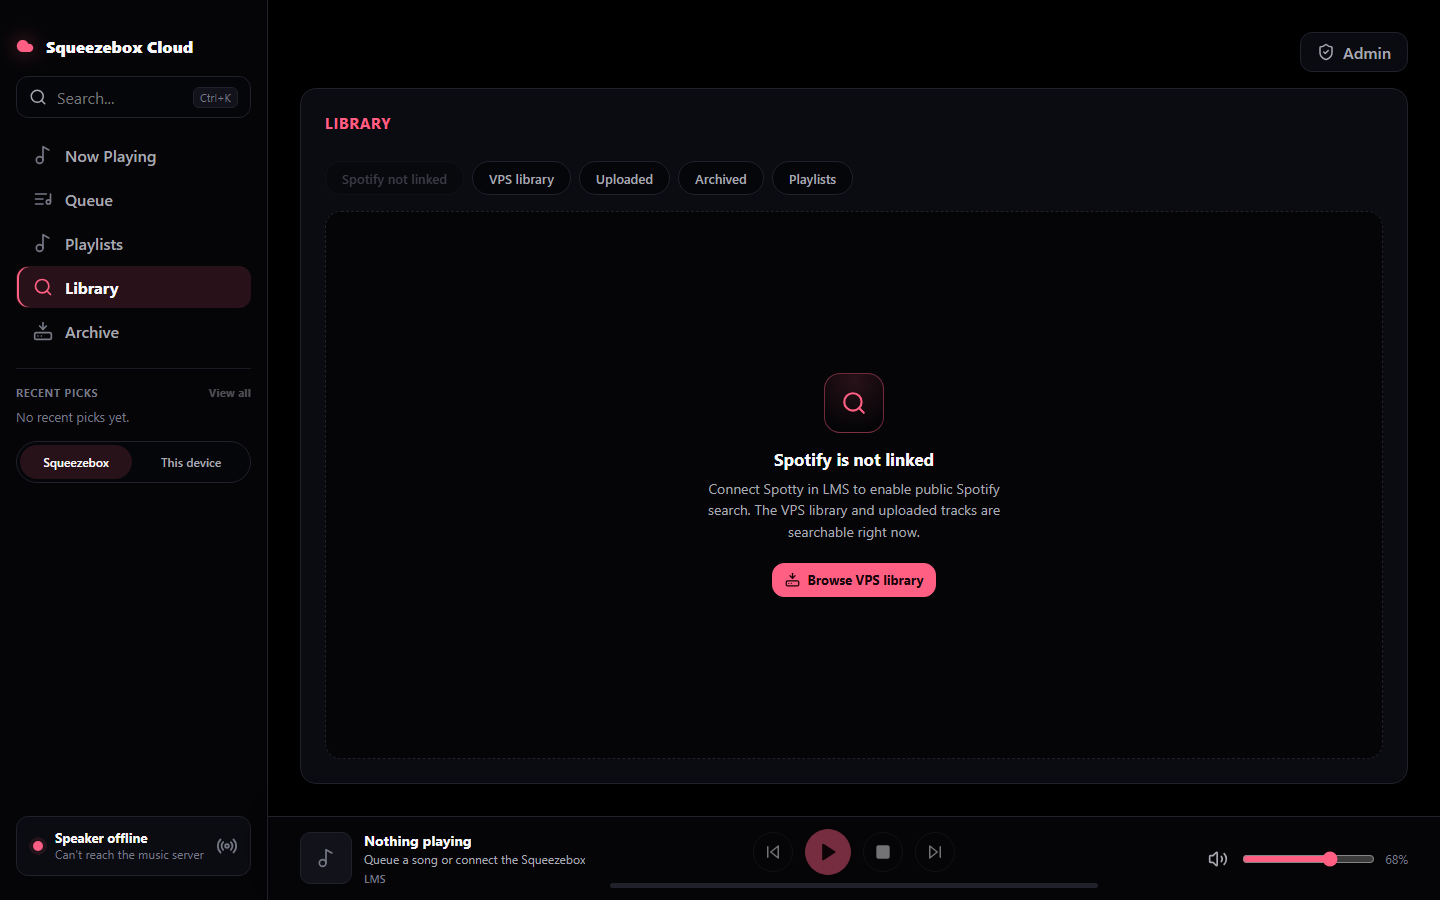
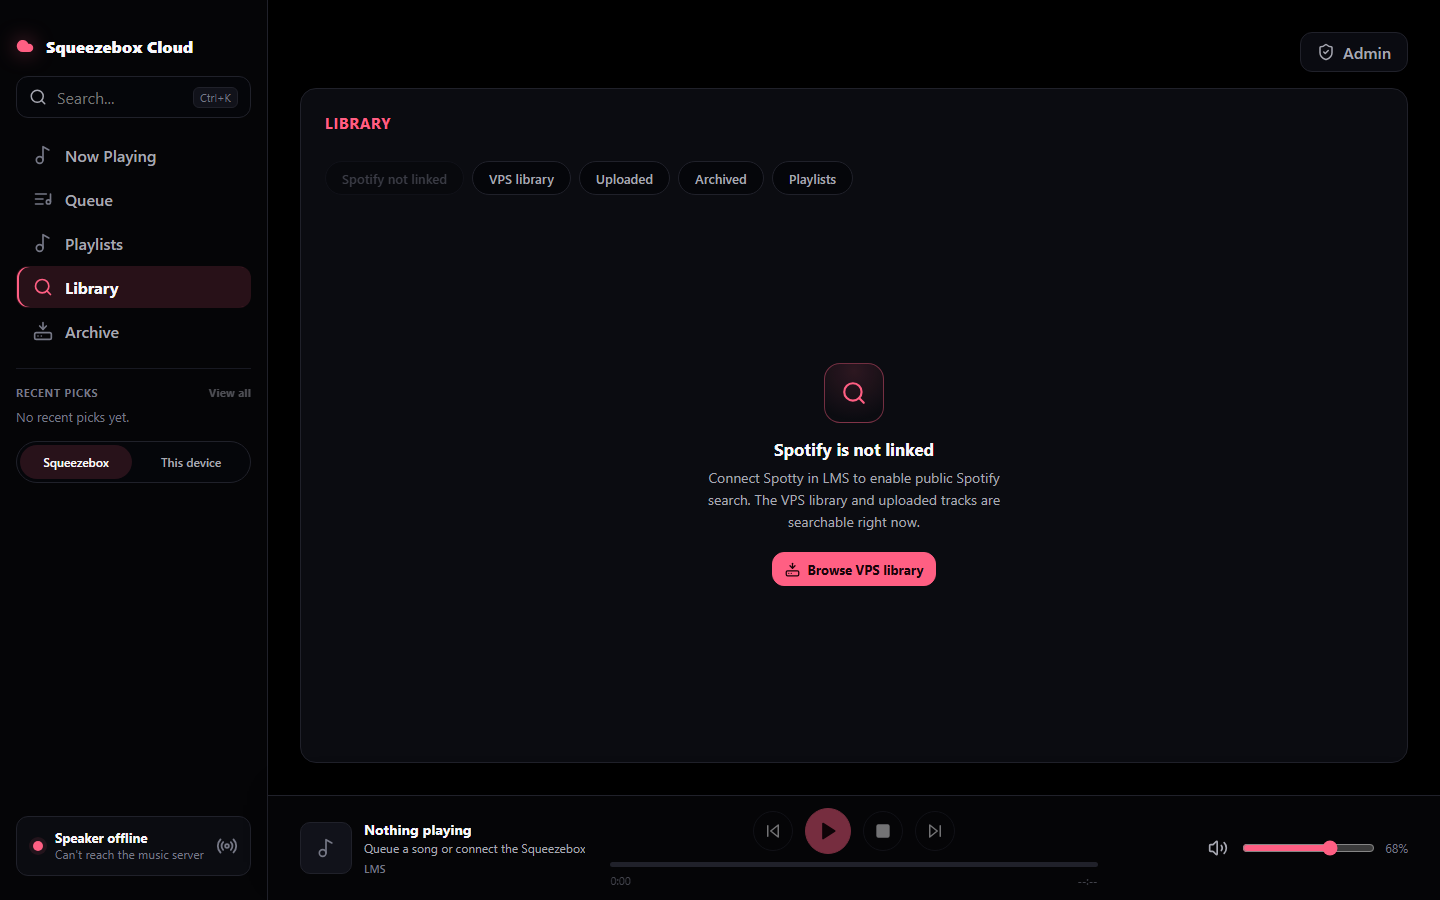
matureui: address held-out judge findings (seek labels, empty-card weight, narrow admin)
- Player-bar seek always shows its time codes (0:00 / --:-- when idle) so it reads
  as a real transport control, not a stray hairline. Restores the labels the
  pre-rebuild UI had; idle labels render muted.
- Empty states drop the large dashed box and center as composed content on the
  panel surface (Linear-style), removing the perceived void on Queue/Library/Archive.
- Admin action pairs with the wordmark as a top bar on narrow (where the sidebar
  stacks above the main header), fixing the orphaned floating pill; desktop keeps
  the top-right placement (specificity fix so .top-link no longer overrides the hide).

diff --git a/src/styles.css b/src/styles.css
@@ -148,6 +148,8 @@ small { display: block; font-size: 13px; line-height: 1.45; }
   letter-spacing: .01em;
 }
 .brand svg { color: var(--rose); filter: drop-shadow(0 0 10px rgba(255, 95, 131, .5)); }
+.brand > .brand__admin { margin-left: auto; display: none; }
+.brand__admin svg { color: currentColor; filter: none; }
 
 .sidebar-search {
   min-height: 42px;
@@ -473,6 +475,7 @@ nav button.active svg { color: var(--rose); }
   display: flex; justify-content: space-between;
   color: var(--faint); font-size: 11px; font-variant-numeric: tabular-nums;
 }
+.progress-times.is-idle { opacity: .55; }
 .volume-row { display: grid; grid-template-columns: auto 1fr auto; gap: var(--s3); align-items: center; }
 .volume-row svg { color: var(--muted); }
 .volume-row span { min-width: 3.5ch; text-align: right; color: var(--faint); font-size: 12px; font-variant-numeric: tabular-nums; }
@@ -810,8 +813,7 @@ nav button.active svg { color: var(--rose); }
 .empty-state {
   display: flex; flex-direction: column; align-items: center; justify-content: center;
   text-align: center; gap: var(--s2);
-  flex: 1; min-height: 260px; padding: var(--s7) var(--s4);
-  border: 1px dashed var(--line); border-radius: var(--r-card); background: var(--bg-soft);
+  flex: 1; min-height: 220px; padding: var(--s6) var(--s4);
 }
 .empty-state__mark {
   display: grid; place-items: center;
@@ -925,6 +927,11 @@ nav button.active svg { color: var(--rose); }
     position: static; height: auto; overflow: visible;
     border-right: 0; border-bottom: 1px solid var(--line);
   }
+  /* On narrow the sidebar stacks above the main header, so the desktop top-right
+     Admin link would float orphaned — pair it with the wordmark as a top bar instead. */
+  .brand > .brand__admin { display: inline-flex; }
+  .hero-row .top-actions { display: none; }
+  .hero-row { min-height: 0; margin-bottom: var(--s2); }
   nav { grid-template-columns: repeat(2, minmax(0, 1fr)); }
   .recent-picks { display: none; }
   .main { padding: var(--s4); gap: var(--s3); }

diff --git a/src/App.tsx b/src/App.tsx
@@ -408,6 +408,12 @@ function AppShell() {
         <div className="brand">
           <Cloud size={18} fill="currentColor" />
           <span>Squeezebox Cloud</span>
+          {/* Compact top-bar action for narrow layouts, where the sidebar stacks above
+              the main header and the desktop top-right Admin link would float orphaned. */}
+          <a className="brand__admin top-link" href={isAdminRoute ? import.meta.env.BASE_URL : `${import.meta.env.BASE_URL}admin`}>
+            <ShieldCheck size={16} />
+            {isAdminRoute ? "Public site" : "Admin"}
+          </a>
         </div>
         <div className="sidebar-search">
           <Search size={18} />
@@ -1074,14 +1080,13 @@ function Progress({
           }}
         />
       </div>
-      {/* No orphaned "0:00 / --:--" when nothing is playing; a live stream with
-          unknown length still shows its elapsed time. */}
-      {(duration > 0 || value > 0) && (
-        <div className="progress-times">
-          <span>{formatTime(value)}</span>
-          <span>{duration > 0 ? formatTime(duration) : ""}</span>
-        </div>
-      )}
+      {/* Always show the scrubber's time codes so the seek reads as a real transport
+          control, not a stray line. Idle shows a muted 0:00 / --:-- (a disabled
+          scrubber), not an orphan — a live stream of unknown length still shows elapsed. */}
+      <div className={`progress-times ${disabled && duration <= 0 && value <= 0 ? "is-idle" : ""}`}>
+        <span>{formatTime(value)}</span>
+        <span>{duration > 0 ? formatTime(duration) : "--:--"}</span>
+      </div>
     </div>
   );
 }
